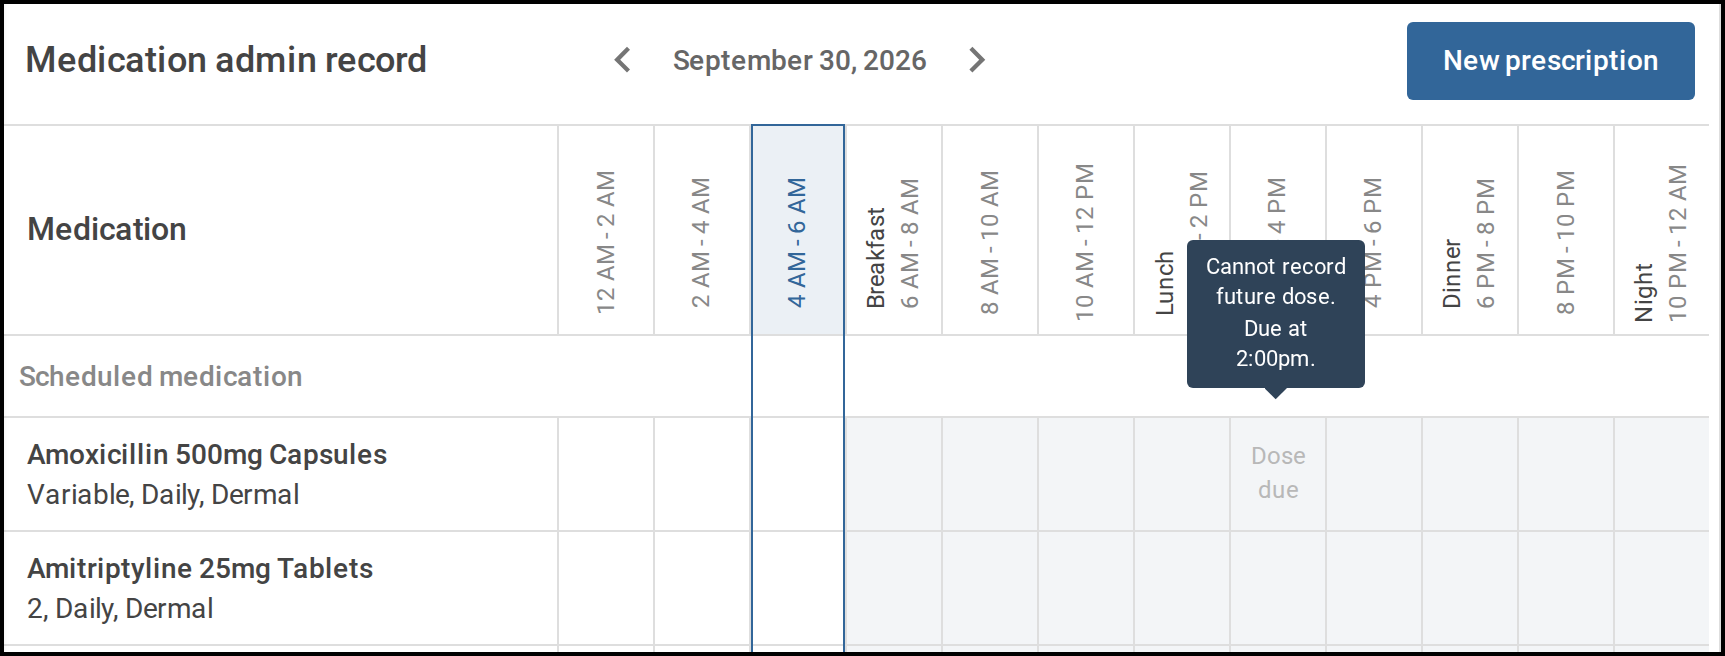
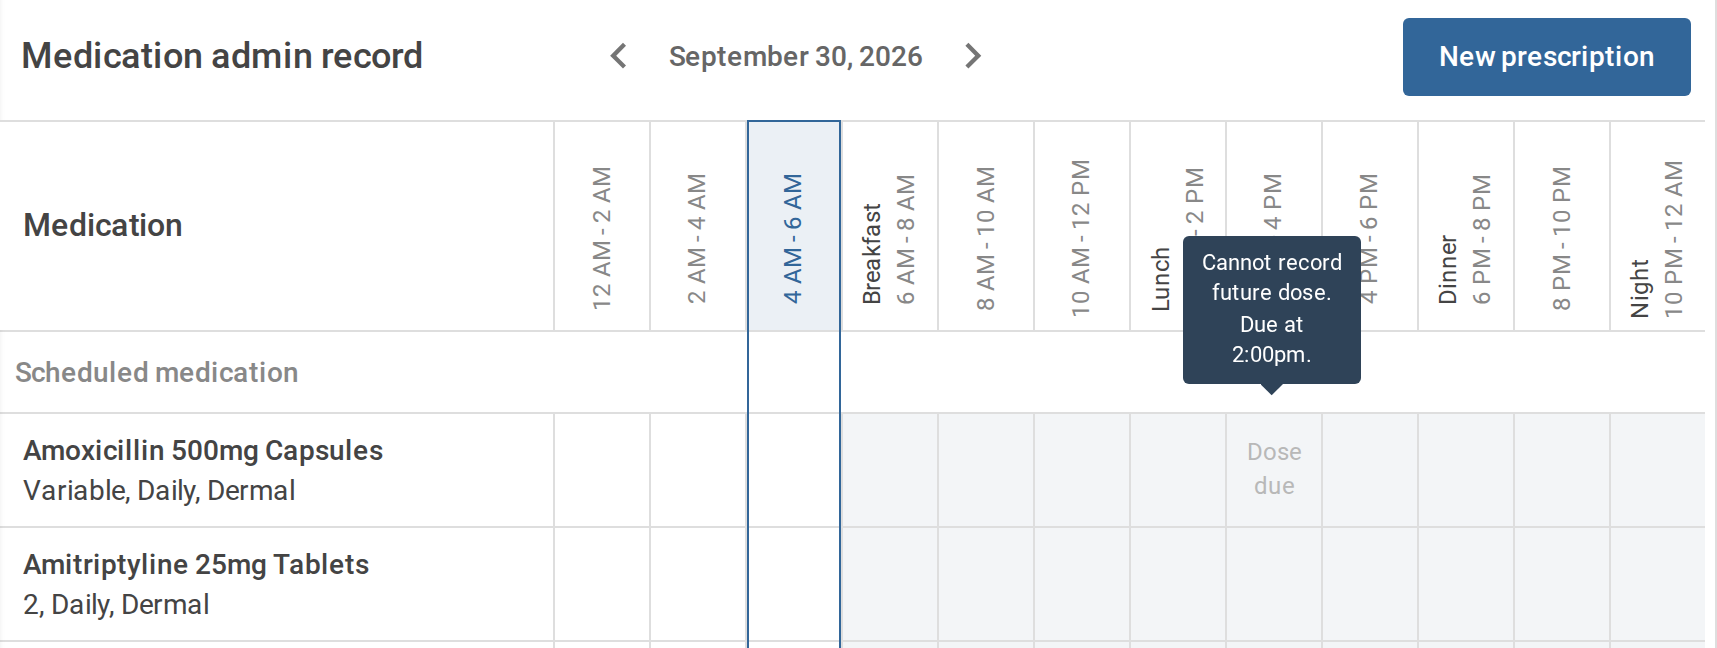
chore(userGuides): U14: trim the black border from Medications and Vitals screenshots
The Tamanu Knowledge Base frames images itself, so the border drawn into each
screenshot doubled up. Trims it from each image and reduces each width attribute
to keep the displayed scale.

diff --git a/docs/user-manuals/config-guides/15-medications/02-settings.md b/docs/user-manuals/config-guides/15-medications/02-settings.md
@@ -30,7 +30,7 @@ relevant to your deployment. Updates apply to all facilities in the deployment.
   <img
     src="images/settings-frequencies-enabled.png"
     alt="Frequencies enabled in Settings, with Save changes and Reset to default outlined in red"
-    width="712"
+    width="710"
   />
   <figcaption>Turn a frequency off, then select <b>Save changes</b>.</figcaption>
 </figure>
@@ -51,7 +51,7 @@ For each frequency, the default administration schedule and ideal administration
   <img
     src="images/settings-default-administration-times.png"
     alt="Default administration times in Settings, with Save changes and Reset to default outlined in red"
-    width="712"
+    width="710"
   />
   <figcaption>Each frequency lists its ideal times under <b>Default administration times</b>.</figcaption>
 </figure>
@@ -110,7 +110,7 @@ the prescribed medication.
   <img
     src="images/settings-medication-administration-record.png"
     alt="The medication admin record showing its 12 two-hour administration windows, with New prescription outlined in red"
-    width="531"
+    width="529"
   />
   <figcaption>The <b>Medication admin record</b> shows 12 two-hour windows.</figcaption>
 </figure>
@@ -126,7 +126,7 @@ administration time displays in a tooltip when hovering over a due dose on the M
   <img
     src="images/settings-ideal-administration-time-tooltip.png"
     alt="Tooltip on a due dose showing its ideal administration time"
-    width="531"
+    width="529"
   />
   <figcaption>Hovering over <b>Dose due</b> shows <b>Cannot record future dose. Due at 2:00pm.</b></figcaption>
 </figure>
@@ -140,7 +140,7 @@ selected frequency and can be edited if required.
   <img
     src="images/settings-administration-schedule-prescription-form.png"
     alt="The medication administration schedule in the new prescription form"
-    width="415"
+    width="413"
   />
   <figcaption>The <b>Medication administration schedule</b> fills in from the chosen frequency.</figcaption>
 </figure>

diff --git a/docs/user-manuals/desktop/10-vitals/01-record-vitals.md b/docs/user-manuals/desktop/10-vitals/01-record-vitals.md
@@ -5,7 +5,7 @@ the patient's encounter.
   <img
     src="images/record-vitals-vitals-tab.png"
     alt="The encounter's Vitals tab, with the Record vitals button outlined in red"
-    width="479"
+    width="477"
   />
   <figcaption>Select <b>Record vitals</b> on the encounter's <b>Vitals</b> tab.</figcaption>
 </figure>
@@ -25,7 +25,7 @@ the patient's encounter.
      <img
        src="images/record-vitals-empty-form.png"
        alt="The empty Record vitals window, with the date and time filled in"
-       width="372"
+       width="370"
      />
      <figcaption>The <b>Record vitals</b> window opens with the date and time filled in.</figcaption>
    </figure>
@@ -53,7 +53,7 @@ the patient's encounter.
      <img
        src="images/record-vitals-new-reading.png"
        alt="The vitals table with the new reading as its first column"
-       width="478"
+       width="476"
      />
      <figcaption>Your new reading appears as the first column of the table.</figcaption>
    </figure>

diff --git a/docs/user-manuals/config-guides/15-medications/01-reference-data.md b/docs/user-manuals/config-guides/15-medications/01-reference-data.md
@@ -20,7 +20,7 @@ The `Drug` reference data type configures the medication list available when pre
   <img
     src="images/reference-data-new-prescription-medication-field.png"
     alt="The Medication field in the new prescription form, listing drugs from reference data"
-    width="415"
+    width="413"
   />
   <figcaption>The <b>Medication</b> field lists the drugs imported as reference data.</figcaption>
 </figure>
@@ -276,7 +276,7 @@ in common use.
   <img
     src="images/reference-data-frequency-synonym-search.png"
     alt="Frequency search for BID returning Two times daily (BD)"
-    width="415"
+    width="413"
   />
   <figcaption>Searching <b>Frequency</b> for BID returns <b>Two times daily (BD)</b>.</figcaption>
 </figure>
